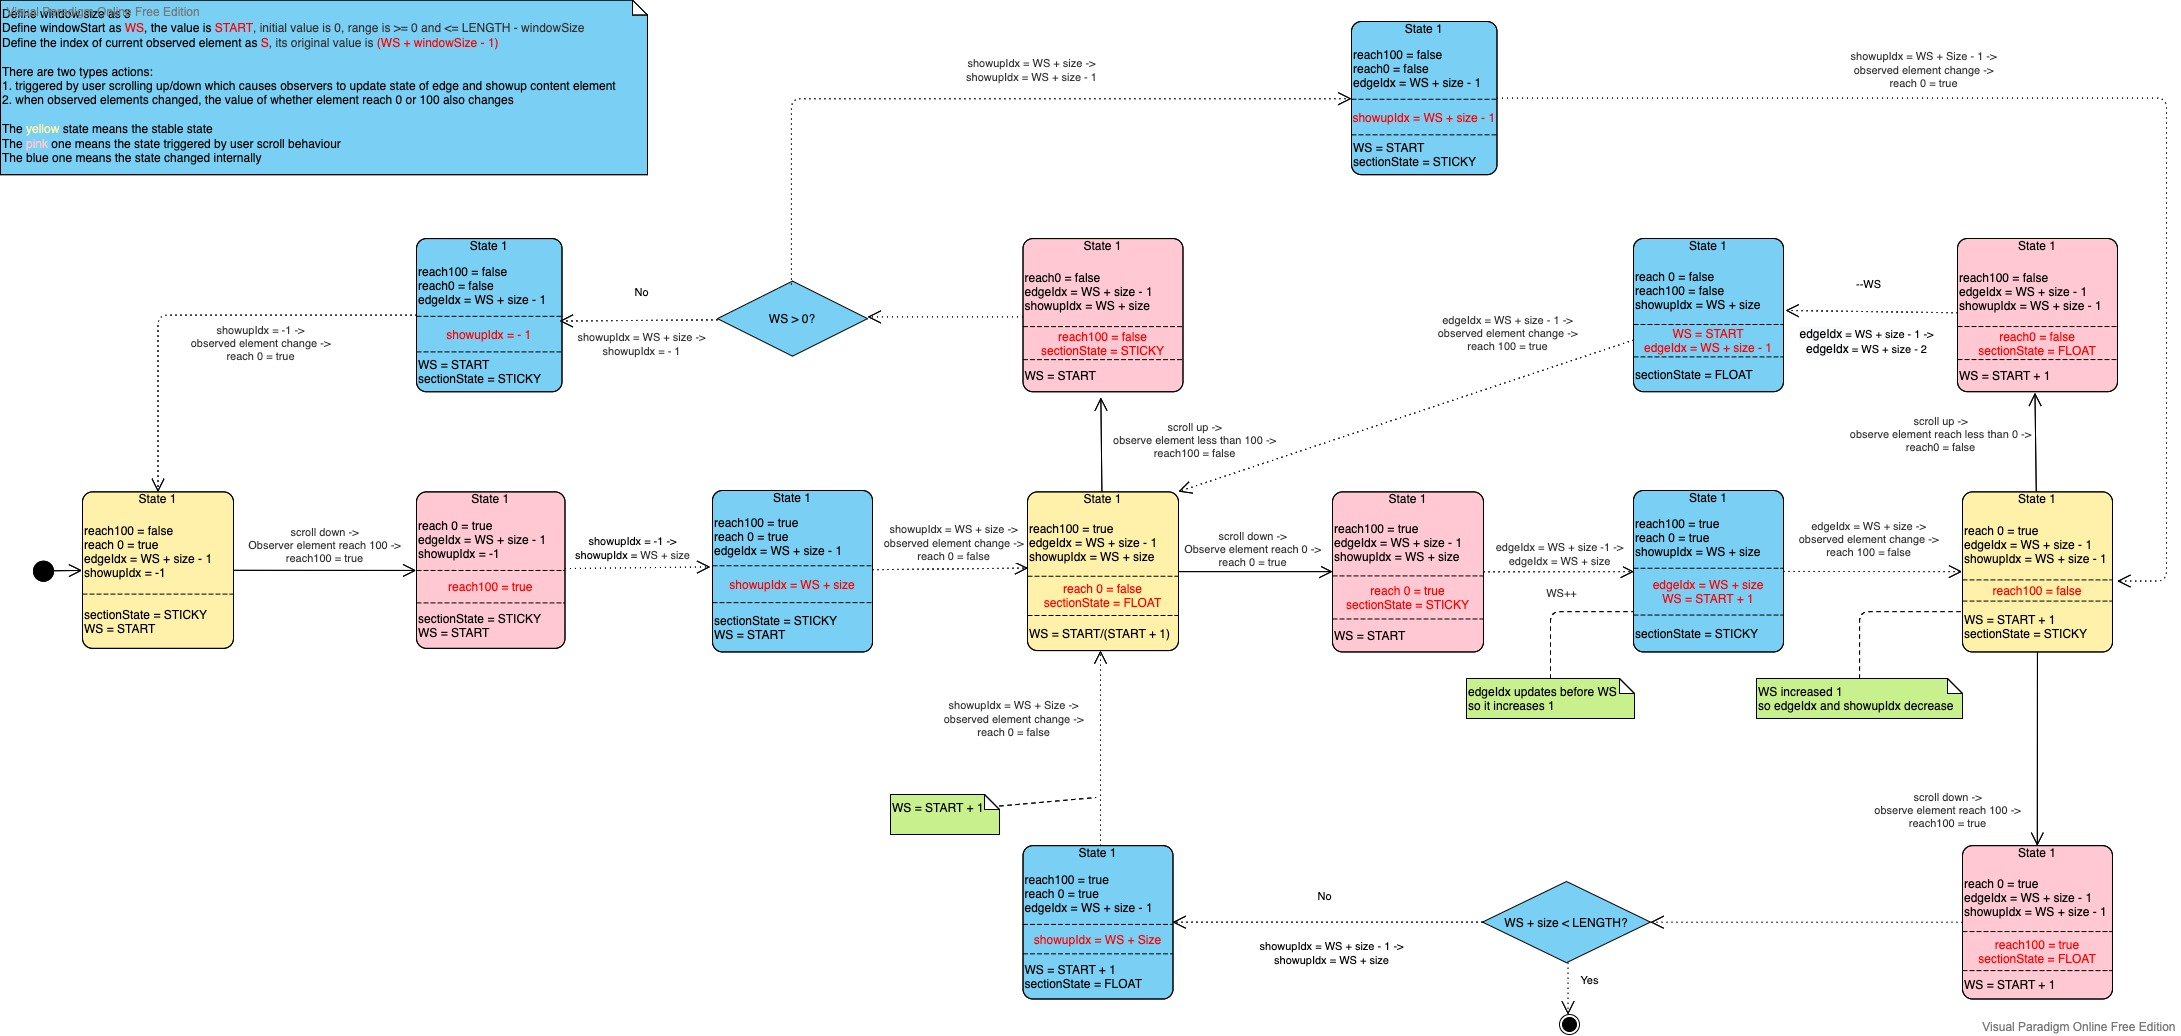
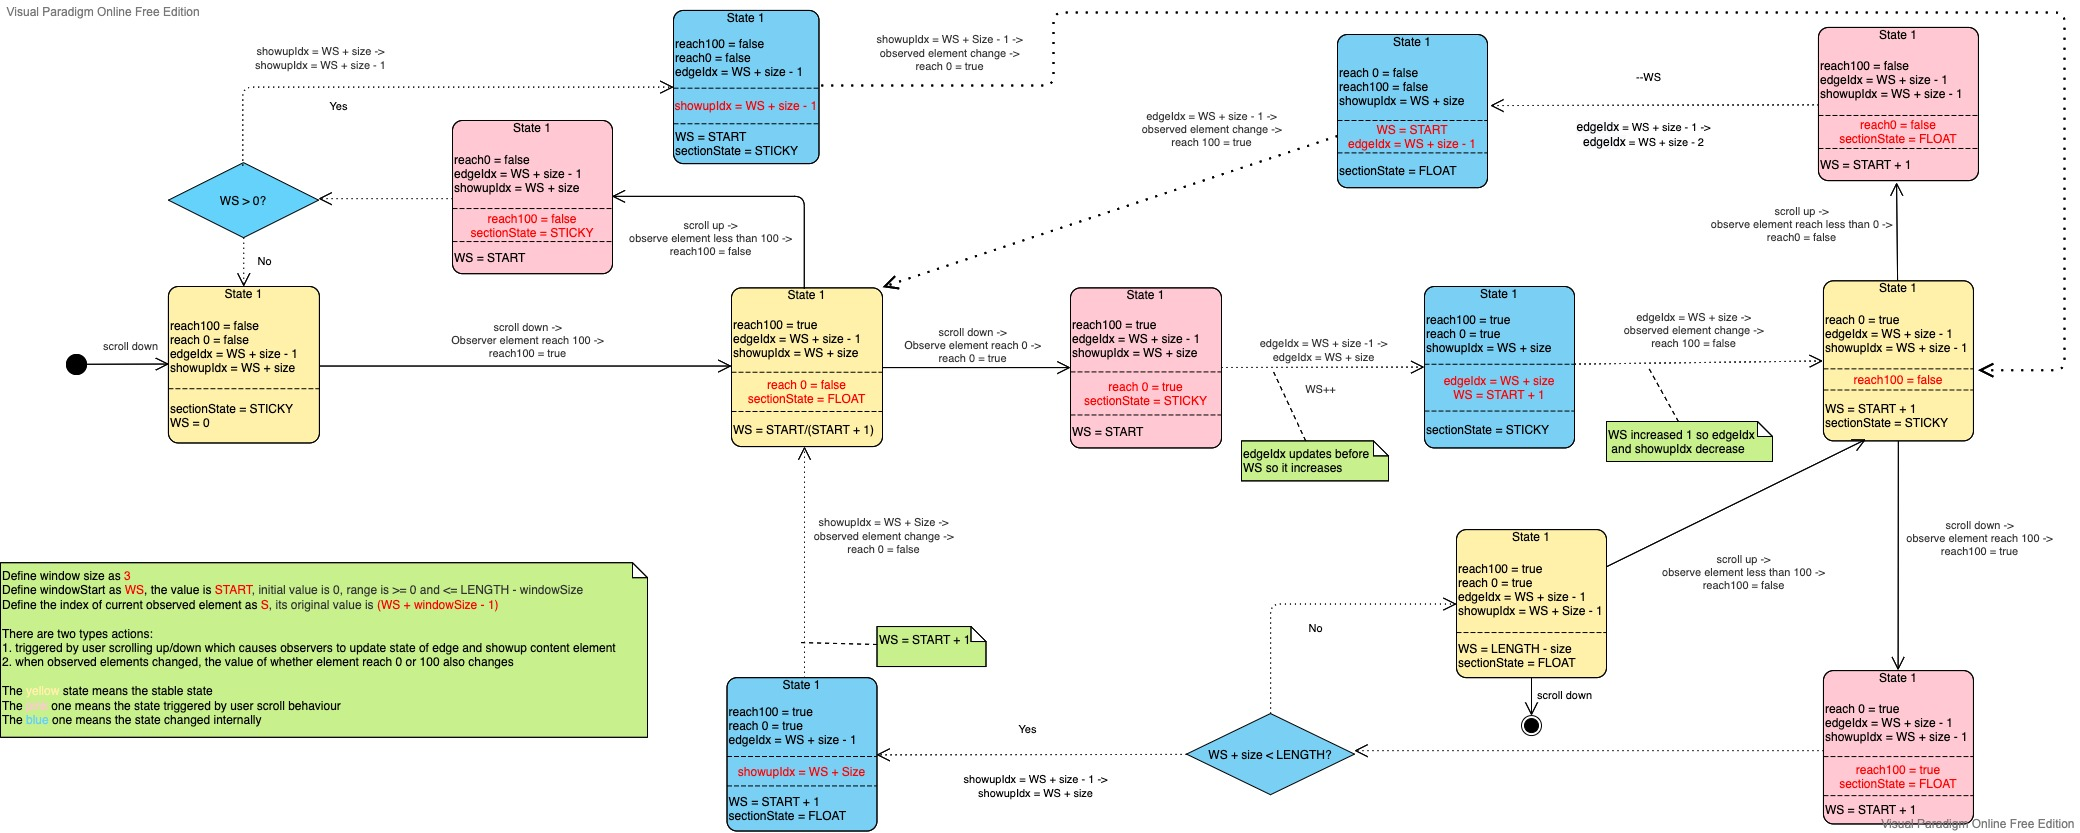
publish folderflip version2

diff --git a/content/blogs/folderflip-version2.md b/content/blogs/folderflip-version2.md
@@ -1,21 +1,74 @@
 ---
 title: "Folderflip Version2"
-date: 2022-09-09T13:13:55+02:00
+date: 2022-10-14T22:13:55+02:00
 author: "Feng Xue"
-draft: true
+tags: ["Javascript", "React", "FolderFlip", "Frontend"]
+toc: true
 usePageBundles: false
+draft: false
 ---
 
-## How to implement a FolderFlip - 2
+As we presented in the [previous article](/blogs/folderflip/), we have showed how to implement the FolderFlip with limited number (like 3) items with the `position: sticky` and `IntersectionObserver`. 
 
-### The Problem
+## The Problem
 
-### Clear the logic first
+But it only allows limited number, if it comes more items or the screen is smaller, the items would not be able to scroll. So how would we display if the items are more and the titles take most of the screen.
+
+<div style="text-align:center;">
+  <img src="/images/folderflip/Folderflip-6items.png" alt="Folder Flip with 6 items" width="400"/>
+</div>
+
+## Clear the logic first
+
+If you want the final answer, just jump to [here](https://codesandbox.io/s/folder-flip-reducer-j8h6xz). Otherwises, I would explain the solutions and the procedures below, also some problems I met.
+
+The idea is we only display a certain number of items in the screen, when the items' number reaches the limit with scrolling down/up, the next/previous one would float out to leave the room for the new item, which can be implemented by changing `postion` to `relative` like what we have done in the [previous blog](https://xfsnowind.github.io/blogs/folderflip/#floating-with-intersectionobserver). So it's like the state transition. I call the state `sticky` before some item reaches the threshold, when it reaches, the whole component would transit to a state named `float`. And in the `float` state, the first item (according to the scroll direction) would be moved out of screen.
+
+And as we know, React is a declarative library, which means you just need to give the required state, React would render it for you anyway, you do not need to know how it's implemented. So it would be good to use state machine diagram to explain the different states and easy to convert the diagram to codes.
+
+### State machine diagram
+
+Here are the diagram:
 
 ![Folder Flip State machin diagram](/images/folderflip/FolderFlip-flat.jpg "State machine diagram")
 
+### Define variables and states
 
-### With only two IntersectionObservers
+We define some concepts first:
+
+1. We define a **window** here, which means the items shown in the screen, and we set it as 3 here;
+2. `WS` or `windowStart` is the start value of window and its value is `START`. The original value is 0 and betwee 0 and `LENGTH - windowSize`;
+3. `edge element` is the upper element which would be checked if it reaches threshold 100%
+4. `showup element` is the lower element which would be checked if it reaches threshold 0
+
+And we can see the variables as well:
+  1. `reach100` -> boolean, indicates if the current observed edge element reach threshold 100%
+  2. `reach0` -> boolean, indicates if the current observed showup element reaches threshold 0
+  3. `edgeIndex` -> indicates the observed edge element index in edge element array, the original value is `windowStart + windowSize - 1`
+  4. `showupIndex` -> indicates the observed showup element index in showup element array, the original value is `windowStart + windowSize`
+  5. `sectionState` -> **STICKY** or **FLOAT**, indicates the current state of component
+  6. `windowStart` -> window start value, initial value is 0 and range is >= `0` and <= `LENGTH - window size`
+
+According to the state machine diagram, there are three types of states:
+  1. the normal state, it's normally stable (yellow one)
+  2. the state triggered by user scroll behavior (pink one)
+  3. the state should be updated internally (blue one)
+
+We will handle each scenario which triggered and started by the scroll event which is **solid** line in the diagram. One entire process should be end to the normal state whose color is *yellow*. From the diagram, we can see one process should have three states, except two edge situations.
+1. The process is triggered by scrolling down, starting from the original state and transiting to the normal state directly, without `scroll` state (pink) and `internal` state (blue);
+  <div style="text-align:center;">
+    <img src="/images/folderflip/start-state-scroll-down.png" alt="Start state scroll down" width="600"/>
+  </div>
+2. The process is triggered by scrolling up from the final normal state and transites to the normal state directly as well.
+  <div style="text-align:center;">
+    <img src="/images/folderflip/final-state-scroll-up.png" alt="Final state scroll up" width="400"/>
+  </div>
+
+We need to handle these two situations separately.
+
+## With only two IntersectionObservers
+
+Although there are 6 (for example) items in the list, actually we only need two active observers. One is for the edge element, the other for showup element, although these two elements are not fixed. So why wouldn't we just create two observers and update the observer's observed element dynamically to get the correct state.
 
 <iframe src="https://codesandbox.io/embed/folderflip-two-observers-pc9bwi?fontsize=14&hidenavigation=1&theme=dark&view=preview"
      style="width:100%; height:500px; border:0; border-radius: 4px; overflow:hidden;"
@@ -24,20 +77,264 @@ usePageBundles: false
      sandbox="allow-forms allow-modals allow-popups allow-presentation allow-same-origin allow-scripts"
    ></iframe>
 
-### IntersectionObserver observe multiple elements???
+As you see, it does work if we scroll showly and carefully. But if we swipe the page fast, something begins going wrong. Why? Because when we swipe too fast, the observer could not change to the correct element before observing the changing.
 
-https://gomakethings.com/options-settings-and-approaches-with-the-vanilla-js-intersection-observer-api/
+## IntersectionObserver observes multiple elements???
 
-### Observer Array
+OK, the solution with only two observers does not work. But actually one `IntersectionObserver` can observe multiple elements, like this:
 
-<iframe src="https://codesandbox.io/embed/folder-flip-ejzdjy?fontsize=14&hidenavigation=1&theme=dark"
-     style="width:100%; height:500px; border:0; border-radius: 4px; overflow:hidden;"
-     title="folder-flip"
-     allow="accelerometer; ambient-light-sensor; camera; encrypted-media; geolocation; gyroscope; hid; microphone; midi; payment; usb; vr; xr-spatial-tracking"
-     sandbox="allow-forms allow-modals allow-popups allow-presentation allow-same-origin allow-scripts"
-   ></iframe>
+```js
+// Create a new observer
+let observer = new IntersectionObserver(function (entries) {
+	entries.forEach(function (entry) {
+		console.log(entry.target);
+		console.log(entry.isIntersecting);
+	});
+});
 
-### useReducer makes my day
+// The elements to observe
+let div1 = document.querySelector('#div-1');
+let div2 = document.querySelector('#div-2');
+
+// Attach them to the observer
+observer.observe(div1);
+observer.observe(div2);
+```
+
+so would using one observer on multiple elements save some resources? 
+
+The answer is no. Not just because there is no big difference, but also it does not work as we expect. According to this [blog](https://gomakethings.com/options-settings-and-approaches-with-the-vanilla-js-intersection-observer-api/), **only elements that have changed show up in the entries array**. So if the element's state not changed, the state would not be in the parameters of observer's callback function, which means we cannot get the correct state of desired element.
+
+So actually when we change the state by scrolling behavior or internal updating, we need the state of the observed element which can be saved in an array. When we change the observed element, we just read the state from that array.
+
+## Observer Array
+
+So we need to setup an array for every type elment (edge, showup) which saves the value of if the elements reaches the threshold, 0 or 100%. Therefore, we have to create observer for each element. Would it effect the performance? Luckily the answer is also no. According to previous mentioned blog, there is no difference of using many observers with one element each.
+
+> A few years ago, there was [a discussion about the performance implications of using this approach](https://github.com/w3c/IntersectionObserver/issues/81) on the w3c GitHub repository for this specification.    
+> The general conclusion was that using many observers with one element each and one observer with many elements should be about equally performant...
+
+```js
+const [edgeElementIndex, setEdgeElementIndex] = useState(windowSize - 1);
+const [showupElementIndex, setShowupElementIndex] = useState(windowSize);
+
+// save the edge and showup elements, it should be stable
+const edgeElements = useMemo(
+  () => [].slice.call(contentElements, windowSize - 1, stepLength),
+  [contentElements, stepLength]
+);
+
+const showupElements = useMemo(
+  () => [].slice.call(contentElements, windowSize - 1, stepLength),
+  [contentElements, stepLength]
+);
+
+// save all the states of edge and showup elements in the array and
+// get their states update whenever observers are triggered, init values are false
+const [edgeStates, setEdgeStates] = useState([]);
+const [showupStates, setShowupStates] = useState([]);
+
+// initial the content elements
+useEffect(() => {
+  let tags = elementRef.current.getElementsByClassName("FolderFlip-Tag");
+  // get the height of the tag
+  setTagHeight(tags[0].getBoundingClientRect().height);
+  setContentElements(
+    elementRef.current.getElementsByClassName("FolderFlip-Content")
+  );
+}, []);
+
+// the callback function to handle when the folder reaches edge with scrolling down
+// keep updating the state according to observers no matter if the element's state is used
+const reachEdgeFunc = ([entry], index) => {
+  setEdgeStates((v) => {
+    let value = [...v];
+    value[index] = entry.isIntersecting || entry.boundingClientRect.top < 0;
+    return value;
+  });
+};
+
+const folderShowUpFunc = ([entry], index) => {
+  setShowupStates((v) => {
+    let value = [...v];
+    value[index] = entry.isIntersecting;
+    return value;
+  });
+};
+
+// set up the observer for edge element with threshold 100%
+useIntersection(edgeElements, reachEdgeFunc, {
+  threshold: 1.0
+});
+
+// set up the observer for showup element with threshold 0%
+useIntersection(showupElements, folderShowUpFunc, {
+  threshold: 0
+});
+```
+
+We use `useMemo` to save the `edgeElements` and `showupElements` to avoid re-rendering. And create arrays `edgeStates` and `showupStates` to save the states of all the elements. To get the correct observed element's state, we also need `edgeIndex` and `showupIndex`. When certain element reaches the threshold and triggers the callback function, it passes `entry` and the index in state array.
+
+`useIntersection` needs to update as well:
+
+```js
+function useIntersection(nodeElements, callbackFunc, options) {
+  let observers = useMemo(() => {
+    if (typeof IntersectionObserver === "undefined") return;
+
+    return nodeElements.map(
+      (_, i) =>
+        new IntersectionObserver(
+          (entries) => {
+            callbackFunc(entries, i);
+          },
+          {
+            threshold: options.threshold
+          }
+        )
+    );
+  }, [nodeElements, callbackFunc, options.threshold]);
+
+  useEffect(() => {
+    observers.forEach((observer, i) => {
+      if (nodeElements[i]) {
+        if (observer) observer.observe(nodeElements[i]);
+      }
+    });
+
+    return () => {
+      observers.forEach((observer) => {
+        if (observer) observer.disconnect();
+      });
+    };
+  }, [nodeElements, observers]);
+}
+```
+
+But here comes another problem, it seems too many `useState`, and each of them hangs out with others, to handle the logic, it's better to put them in one function. The state transition could be processed there. How to implement this?
+
+## `useReducer` makes my day
+
+The answer is `useReducer` in React.
+
+`reducer` and `dispatcher` are the concepts from `Redux`, even though we do not use it here, but `useReducer` was introduced to React as well. 
+
+```js
+const [state, dispatch] = useReducer(reducer, initialArg, init);
+```
+
+So we can handle all the variables in the `reducer` and update the UI according to the returned `state`. Also use `dispatch` to send the state from observer's callback function.
+
+```js
+// the callback function to handle when the folder reaches edge with scrolling down
+// keep updating the state according to observers no matter if the element's state is used
+const reachEdgeFunc = useCallback(
+  ([entry], index) =>
+    dispatchFunc({
+      type: REDUCER_TYPE.edge,
+      payload: {
+        index,
+        value: entry.isIntersecting || entry.boundingClientRect.top < 0
+      }
+    }),
+  [dispatchFunc]
+);
+
+const folderShowUpFunc = useCallback(
+  ([entry], index) =>
+    dispatchFunc({
+      type: REDUCER_TYPE.showup,
+      payload: { index, value: entry.isIntersecting }
+    }),
+  [dispatchFunc]
+);
+```
+
+Here we use `useCallback` to avoid re-rendering in hooks `useIntersection`. And the payload contains the element index and the state of element. 
+
+The `reducer` takes `state` and `action` as parameters and should be pure, which means with the same input, the output should also not change. Note: Within `StrictMode` of React, the reducer would be called twice with same value.
+
+```js
+function FolderFlipReducer(state, action) {
+  if (!action) return state;
+
+  // set the value of edge state with given index
+  if (action.type === REDUCER_TYPE.edge) {
+    state.edgeStates[action.payload.index] = action.payload.value;
+  } else if (action.type === REDUCER_TYPE.showup) {
+    state.showupStates[action.payload.index] = action.payload.value;
+  }
+
+  let edgeIndex = state.edgeIndex,
+    showupIndex = state.showupIndex,
+    sectionState = state.sectionState,
+    windowStart = state.windowStart;
+
+  const reach0 = state.showupStates[state.showupIndex - windowSize + 1],
+    reach100 = state.edgeStates[state.edgeIndex - windowSize + 1];
+
+  // if the prev state is initial stable state, just update the section state
+  if (!reach0 && reach100 && edgeIndex + 1 === showupIndex) {
+    sectionState = SECTION_STATE.float;
+    return {
+      ...state,
+      sectionState
+    };
+  }
+
+  // if the prev state is final stable state
+  if (reach0 && !reach100 && edgeIndex === showupIndex) {
+    sectionState = SECTION_STATE.sticky;
+    return {
+      ...state,
+      sectionState
+    };
+  }
+
+  // all the other four situations would need to be handled under state type scroll
+  // handle the pink ones in state machine diagram
+
+  // if edge and showup observed elements are the same, set the state as float
+  if (edgeIndex === showupIndex) sectionState = SECTION_STATE.float;
+
+  // otherwises, sticky
+  if (edgeIndex + 1 === showupIndex) sectionState = SECTION_STATE.sticky;
+
+  // need to update the edge and showup index in the internal state type
+
+  if (sectionState === SECTION_STATE.float) {
+    if (reach0 && reach100) {
+      if (windowStart + windowSize < state.stepLength)
+        showupIndex = windowStart + windowSize;
+    } else if (!reach0 && !reach100) {
+      windowStart = state.windowStart > 0 ? state.windowStart - 1 : 0;
+      edgeIndex = state.windowStart + windowSize - 2;
+    }
+  }
+
+  if (sectionState === SECTION_STATE.sticky) {
+    if (!reach0 && !reach100) {
+      if (windowStart > 0) showupIndex = windowStart + windowSize - 1;
+    } else if (reach0 && reach100) {
+      edgeIndex = windowStart + windowSize;
+      windowStart =
+        state.windowStart + windowSize < state.stepLength
+          ? state.windowStart + 1
+          : state.stepLength - windowSize;
+    }
+  }
+
+  return {
+    ...state,
+    windowStart,
+    edgeIndex,
+    showupIndex,
+    sectionState
+  };
+}
+```
+
+So til now, we have explained and presented the solution, the page works quite stable. Below is the full codes and welcome any comments.
 
 <iframe src="https://codesandbox.io/embed/folder-flip-reducer-j8h6xz?fontsize=14&hidenavigation=1&theme=dark&view=preview"
      style="width:100%; height:500px; border:0; border-radius: 4px; overflow:hidden;"
@@ -45,3 +342,4 @@ https://gomakethings.com/options-settings-and-approaches-with-the-vanilla-js-int
      allow="accelerometer; ambient-light-sensor; camera; encrypted-media; geolocation; gyroscope; hid; microphone; midi; payment; usb; vr; xr-spatial-tracking"
      sandbox="allow-forms allow-modals allow-popups allow-presentation allow-same-origin allow-scripts"
    ></iframe>
+
